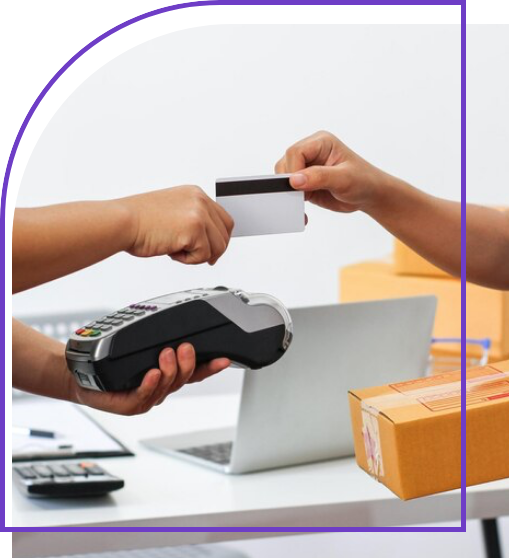
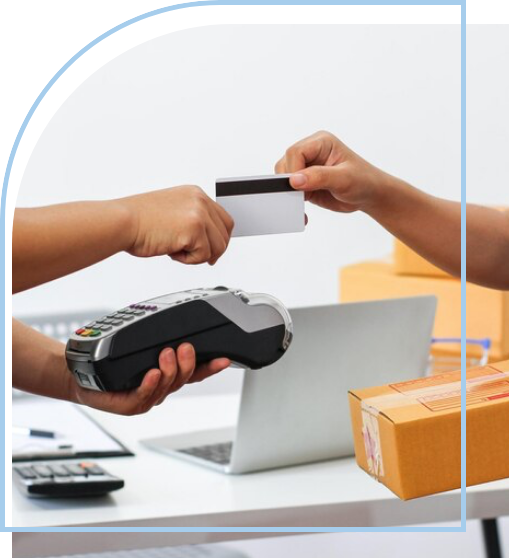
[ADD] Tema 2

Changed region(s): [[0.0, 0.0, 0.9136, 0.9749]]

diff --git a/src/views/Tema2.vue b/src/views/Tema2.vue
@@ -15,7 +15,7 @@
           .cajon.color-secundario.p-4.mb-2
             .h5.ps-3 Coll (2020)
             p.ps-3 Una transacción comercial es una operación mercantil en la que un vendedor y un comprador acuerdan la transferencia de la propiedad sobre algo, a cambio de un precio previamente acordado.
-          .cajon.color-secundario.p-4.mb-2
+          .cajon.color-acento-contenido.p-4.mb-2
             .h5.ps-3 Sy (2019)
             p.ps-3 Son actividades o eventos económicos que implican interacciones entre dos o más partes, en las que se intercambian productos, servicios o valores por algún tipo de retribución, con frecuencia en la forma de dinero.
         .col-10.col-md-10.col-lg-5.d-none.d-lg-block
@@ -28,28 +28,32 @@
             img(src='@/assets/curso/temas/t2/2.svg' alt='').img120
             .tarjeta.nueva
               .p-3.mt-5
-                h4.mb-4.text-center El comprador
+                .bg-color-8.p-2.mb-3
+                  h4.mb-0.text-center El comprador
                 p.mb-0.text-center La persona que necesita el bien o servicio. 
         .col-md-6.col-lg-3.col-sm-12.mb-cus
           .tarjeta-avatar
             img(src='@/assets/curso/temas/t2/3.svg' alt='').img120
             .tarjeta.nueva
               .p-3.mt-5
-                h4.mb-4.text-center El vendedor
+                .bg-color-8.p-2.mb-3
+                  h4.mb-0.text-center  El vendedor
                 p.mb-0.text-center Es la persona o entidad que ofrece el bien o servicio. Este puede ser un sujeto de producción o distribución o ser un sujeto de consumo.
         .col-md-6.col-lg-3.col-sm-12.mb-cus
           .tarjeta-avatar
             img(src='@/assets/curso/temas/t2/4.svg' alt='').img120
             .tarjeta.nueva
               .p-3.mt-5
-                h4.mb-4.text-center El componente monetario
+                .bg-color-8.p-2.mb-3
+                  h4.mb-0.text-center  El componente monetario
                 p.mb-0.text-center Este pago se puede realizar de contado o en efectivo.
         .col-md-6.col-lg-3.col-sm-12
           .tarjeta-avatar
             img(src='@/assets/curso/temas/t2/5.svg' alt='').img120
             .tarjeta.nueva
               .p-3.mt-5
-                h4.mb-4.text-center.mx-5 El bien o servicio
+                .bg-color-8.p-2.mb-3
+                  h4.mb-0.text-center El bien o servicio
                 p.mb-0.text-center  Es el objeto de la transacción entre el comprador y el vendedor.
 
       
@@ -177,22 +181,22 @@
         .col-sm-12.col-lg-9
           ul.lista-ul--color.lista-ul--separador
             li.d-flex
-              i.fas.fa-check-circle.icon-list
+              i.fas.fa-check-circle.icon-color-2
               p.mb-0 #[b Negociables:] pagaré, cheque, letra de cambio, libranza, factura cambiaria. Se pueden convertir en dinero o usarse en transacciones.
             li.d-flex
-              i.fas.fa-check-circle
+              i.fas.fa-check-circle.icon-color-2
               p.mb-0 #[b No negociables:] cotización, pedido, remisión, factura, recibo de caja, comprobante de pago, consignaciones, notas débito y crédito. Respaldan la transacción, pero no permiten negociaciones.
             li.d-flex
-              i.fas.fa-check-circle
+              i.fas.fa-check-circle.icon-color-2
               p.mb-0 #[b Privados:] elaborados entre particulares para efectos comerciales.
             li.d-flex
-              i.fas.fa-check-circle
+              i.fas.fa-check-circle.icon-color-2
               p.mb-0 #[b Públicos:] emitidos por notarios o funcionarios judiciales.
             li.d-flex
-              i.fas.fa-check-circle
+              i.fas.fa-check-circle.icon-color-2
               p.mb-0 #[b Informativos:] brindan datos sobre la mercancía (valor, condiciones de pago, etc.).
             li.d-flex
-              i.fas.fa-check-circle
+              i.fas.fa-check-circle.icon-color-2
               p.mb-0 #[b De soporte:] prueban una acción realizada y respaldan obligaciones monetarias.
 
         .col-sm-12.col-lg-3.d-none.d-lg-block

diff --git a/src/styles/_custom.sass b/src/styles/_custom.sass
@@ -71,7 +71,7 @@ figcaption
     background-color: $color-acento-botones;
     border-color: $color-acento-botones
 .cajon.color-acento-contenido
-    background-color: #E2D8F4
+    background-color: #E4F0F9
 .acordion__accion__btn--a
   background-color: #BE79CA
 .acordion .tarjeta--azul
@@ -84,7 +84,7 @@ figcaption
   h3
     color: #fff
 .tabla-b table thead
-  background-color: $color-acento-contenido !important
+  background-color: $color-primario !important
 
 .tabla-b table caption
   font-weight: normal !important
@@ -214,6 +214,8 @@ figcaption
   color: $color-adicional-2 !important
 .lista-ol--cuadro__vineta
     color: $color-sistema-texto !important
+.lista-ul--color li > i.icon-color-2
+    color: $color-secundario !important;
 .acordion__accion__btn--a
   background-color: $color-acento-botones
   box-shadow: 0px 0px 7px 2px rgba(0,0,0,.3)
@@ -280,10 +282,8 @@ figcaption
     text-align: left !important
 
 .tarjeta.nueva
-    border-width: 3px;
-    border-style: solid;
-    border-image: initial;
-    border-color: $color-acento-contenido !important;
+    border: 0 !important
+    background-color: #E5EFD6 !important
 
 .img250
   width: 290px 
